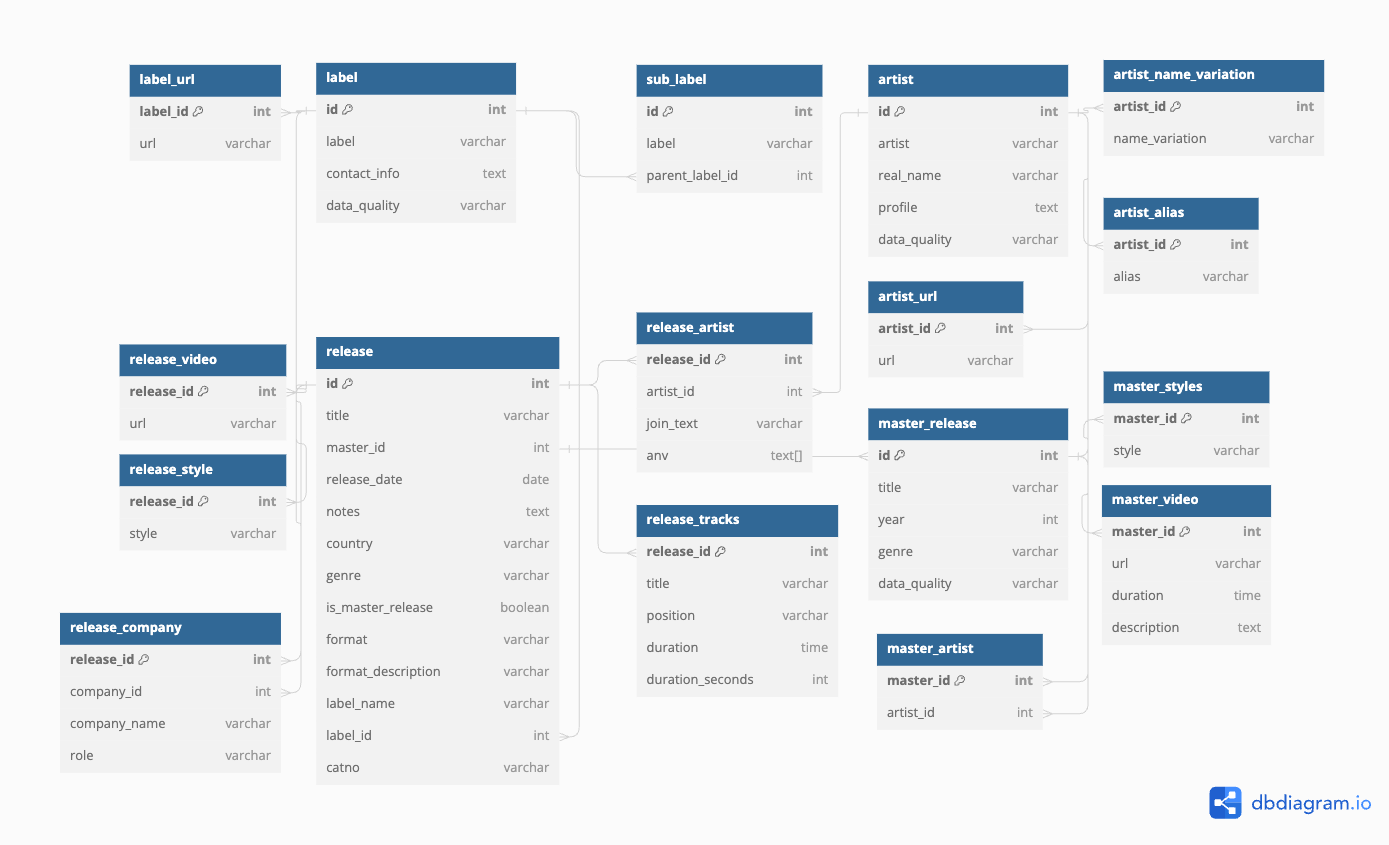
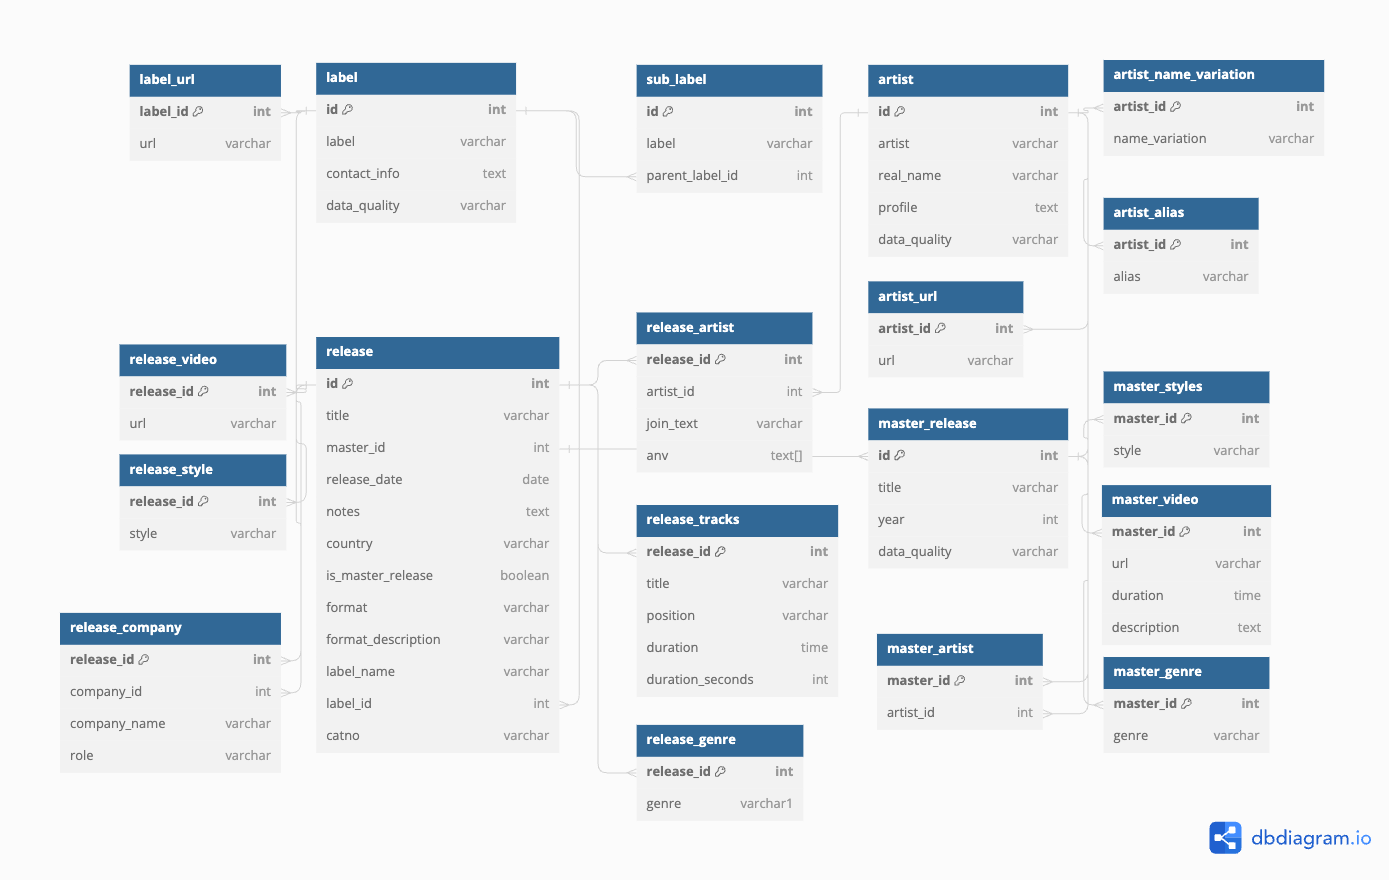
genre tables added for releases with 1+ genres

diff --git a/src/writer.py b/src/writer.py
@@ -146,13 +146,23 @@ class ReleaseWriter(SimpleWriter):
             "release_date",
             "notes",
             "country",
-            "genre",
             "is_master_release",
             "format",
             "format_description",
             "label_name",
             "label_id",
             "catno",
+        ]
+
+
+class ReleaseGenreWrite(NestedWriter):
+    def __init__(self, file_name=None) -> None:
+        super().__init__(file_name)
+        self.headers = ["release_id", "genre"]
+
+    def get_sub_items(self, row):
+        return [
+            {"release_id": row.get("id"), "genre": genre} for genre in row.get("genre")
         ]
 
 
@@ -258,7 +268,7 @@ class ReleaseVideoWriter(NestedWriter):
 class MasterWriter(SimpleWriter):
     def __init__(self, file_name=None) -> None:
         super().__init__(file_name)
-        self.headers = ["id", "title", "year", "genre", "data_quality"]
+        self.headers = ["id", "title", "year", "data_quality"]
 
 
 class MasterArtistWriter(NestedWriter):
@@ -292,7 +302,19 @@ class MasterVideoWriter(NestedWriter):
         ]
 
 
-class MasterStyles(NestedWriter):
+class MasterGenreWriter(NestedWriter):
+    def __init__(self, file_name=None) -> None:
+        super().__init__(file_name)
+        self.headers = ["master_id", "style"]
+
+    def get_sub_items(self, row):
+        return [
+            {"master_id": row.get("id"), "style": style.strip()}
+            for style in row.get("genre")
+        ]
+
+
+class MasterStylesWriter(NestedWriter):
     def __init__(self, file_name=None) -> None:
         super().__init__(file_name)
         self.headers = ["master_id", "style"]

diff --git a/src/writers_config.py b/src/writers_config.py
@@ -35,6 +35,9 @@ def setup_writers(csv_path=None):
         "release_style_writer": ReleaseStyleWriter(
             file_name=f"{csv_path}/release_style.csv",
         ),
+        "release_genre_writer": ReleaseGenreWrite(
+            file_name=f"{csv_path}/release_genre.csv",
+        ),
         "release_company_writer": ReleaseCompanyWriter(
             file_name=f"{csv_path}/release_company.csv",
         ),
@@ -45,7 +48,12 @@ def setup_writers(csv_path=None):
         "master_video_writer": MasterVideoWriter(
             file_name=f"{csv_path}/master_video.csv",
         ),
-        "master_styles_writer": MasterStyles(file_name=f"{csv_path}/master_style.csv"),
+        "master_styles_writer": MasterStylesWriter(
+            file_name=f"{csv_path}/master_style.csv"
+        ),
+        "master_genre_writer": MasterStylesWriter(
+            file_name=f"{csv_path}/master_genre.csv"
+        ),
         "master_artist_writer": MasterArtistWriter(
             file_name=f"{csv_path}/master_artist.csv",
         ),

diff --git a/src/main.py b/src/main.py
@@ -16,7 +16,7 @@ prefix = "data/"
 def get_args():
     parser = argparse.ArgumentParser(description="Discogs Ingest")
     parser.add_argument(
-        "--csv_dir", help="Enter directory to save files to.", required=True
+        "--dir", help="Enter directory to save files to.", required=True
     )
     parser.add_argument(
         "--raw_dir", help="Enter directory of raw data dumps", required=False

diff --git a/src/parser.py b/src/parser.py
@@ -37,7 +37,7 @@ class ParserUtils:
             for g in (genres_element if genres_element is not None else [])
             if g.text is not None
         ]
-        return {"genre": genres[0] if len(genres) >= 1 else "", "style": styles}
+        return {"genre": genres, "style": styles}
 
     @staticmethod
     def parse_aliases(element):
